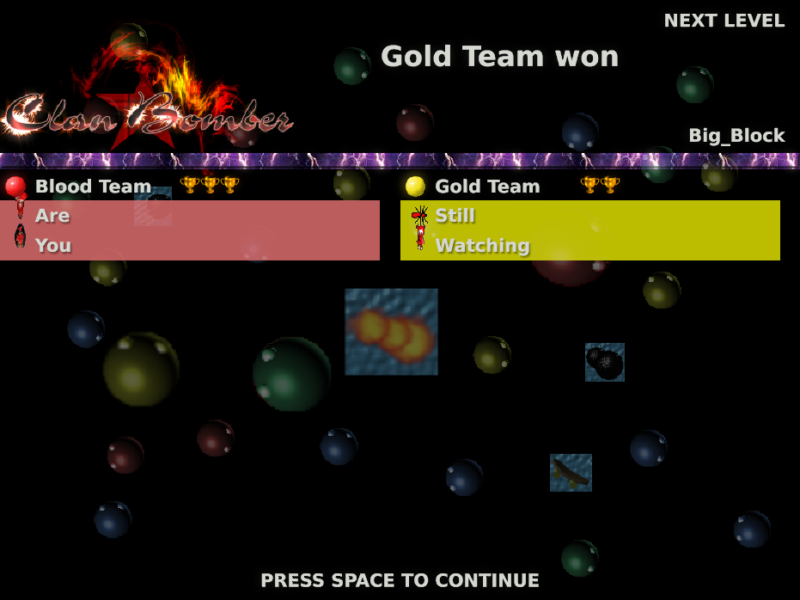
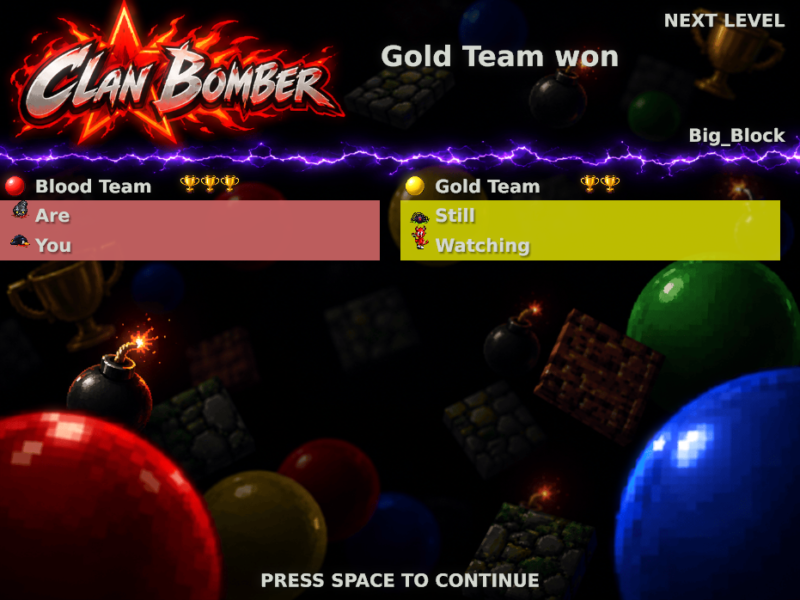
README: capturas de la 0.3.0 con el menú 3D

diff --git a/README.md b/README.md
@@ -20,7 +20,7 @@ Up to 8 players, AI opponents, gamepads, 33 maps, power-ups, diseases, ice, trap
 [![Stars](https://img.shields.io/github/stars/oriaj-nocrala/clanbomber-rs?style=flat-square&logo=github&logoColor=white)](https://github.com/oriaj-nocrala/clanbomber-rs/stargazers)
 [![PRs welcome](https://img.shields.io/badge/PRs-welcome-FF5A5F?style=flat-square)](https://github.com/oriaj-nocrala/clanbomber-rs/pulls)
 
-<img src="docs/img/gameplay.gif?v=0.2.0" alt="Four AIs playing a round on FireWheels" width="640">
+<img src="docs/img/gameplay.gif?v=0.3.0" alt="Four AIs playing a round on FireWheels" width="640">
 
 <sub>Four AIs on <i>FireWheels</i>, with arrows pushing bombs around. Recorded by the game itself (<code>--screenshots</code>).</sub>
 
@@ -42,32 +42,32 @@ Linux.
 
 <table>
 <tr>
-<td width="50%"><img src="docs/img/menu.png?v=0.2.0" alt="Main menu"></td>
-<td width="50%"><img src="docs/img/gameplay-ice.png?v=0.2.0" alt="Ice-themed match"></td>
+<td width="50%"><img src="docs/img/menu.png?v=0.3.0" alt="Main menu"></td>
+<td width="50%"><img src="docs/img/gameplay-ice.png?v=0.3.0" alt="Ice-themed match"></td>
 </tr>
 <tr>
-<td align="center"><sub>Main menu, on the original title screen</sub></td>
+<td align="center"><sub>3D main menu: each box is an option and your bomber is the cursor</sub></td>
 <td align="center"><sub>Ice arena: AIs, bombs, power-ups and cross-shaped fire</sub></td>
 </tr>
 <tr>
-<td width="50%"><img src="docs/img/gameplay-jungle.png?v=0.2.0" alt="Jungle-themed match"></td>
-<td width="50%"><img src="docs/img/team-scoreboard.png?v=0.2.0" alt="Team scoreboard"></td>
+<td width="50%"><img src="docs/img/gameplay-jungle.png?v=0.3.0" alt="Jungle-themed match"></td>
+<td width="50%"><img src="docs/img/team-scoreboard.png?v=0.3.0" alt="Team scoreboard"></td>
 </tr>
 <tr>
 <td align="center"><sub>6 graphic themes — this one is “Jungle Arena”</sub></td>
 <td align="center"><sub>Team scoreboard between rounds</sub></td>
 </tr>
 <tr>
-<td width="50%"><img src="docs/img/player-setup.png?v=0.2.0" alt="Player setup"></td>
-<td width="50%"><img src="docs/img/map-select.png?v=0.2.0" alt="Map selection"></td>
+<td width="50%"><img src="docs/img/player-setup.png?v=0.3.0" alt="Player setup"></td>
+<td width="50%"><img src="docs/img/map-select.png?v=0.3.0" alt="Map selection"></td>
 </tr>
 <tr>
-<td align="center"><sub>8 seats: skin, name, team and controller</sub></td>
+<td align="center"><sub>Player setup on a wooden sign: skin, name, team and controller</sub></td>
 <td align="center"><sub>Map selection with live preview</sub></td>
 </tr>
 <tr>
-<td width="50%"><img src="docs/img/map-editor.png?v=0.2.0" alt="Map editor"></td>
-<td width="50%"><img src="docs/img/scoreboard.png?v=0.2.0" alt="Scoreboard with trophies"></td>
+<td width="50%"><img src="docs/img/map-editor.png?v=0.3.0" alt="Map editor"></td>
+<td width="50%"><img src="docs/img/scoreboard.png?v=0.3.0" alt="Scoreboard with trophies"></td>
 </tr>
 <tr>
 <td align="center"><sub>Built-in map editor</sub></td>
@@ -78,7 +78,7 @@ Linux.
 ## 🌋 1999 game, 2026 graphics
 
 <div align="center">
-<img src="docs/img/slow-motion.gif?v=0.2.0" alt="Slow motion on the death that decides the round" width="480">
+<img src="docs/img/slow-motion.gif?v=0.3.0" alt="Slow motion on the death that decides the round" width="480">
 
 <sub>The death that decides the round, in slow motion: the camera frames the victim, the bomb and the killer.</sub>
 </div>
@@ -100,6 +100,9 @@ everything off (or on old GL without compute shaders) it looks like the original
 - **Slow motion** on the round-deciding death, with spotlights on who died, the bomb and who placed it.
 - **Antique stopwatch** in the HUD and **crisp text** at any resolution (signed distance fields).
 - **Interpolated rendering** for monitors above 60 Hz; the simulation stays at a fixed 60 Hz and deterministic.
+- **3D menu**: the main menu is a tiny level in perspective, lit by torches. Your bomber walks between the boxes,
+  bombs the one you pick and the camera dives in; submenus, player setup, map selection and help are wooden signs
+  that flip in like cards.
 
 ## 🎮 Features
 
@@ -258,6 +261,9 @@ en GL antiguo, sin compute shaders) se ve como el original.
 - **Cámara lenta** en la muerte que decide la ronda, con focos sobre quien murió, la bomba y quien la puso.
 - **Cronómetro antiguo** en el HUD y **texto nítido** a cualquier resolución (campos de distancia).
 - **Dibujo interpolado** para monitores de más de 60 Hz; la simulación sigue a 60 Hz fijos y determinista.
+- **Menú 3D**: el menú principal es un nivel en miniatura en perspectiva, alumbrado por antorchas. Tu bomber camina
+  entre las cajas, pone una bomba en la elegida y la cámara se zambulle; los submenús, la configuración de jugadores,
+  la selección de mapas y la ayuda son letreros de madera que entran girando como una carta.
 
 ### 🎮 Características
 
